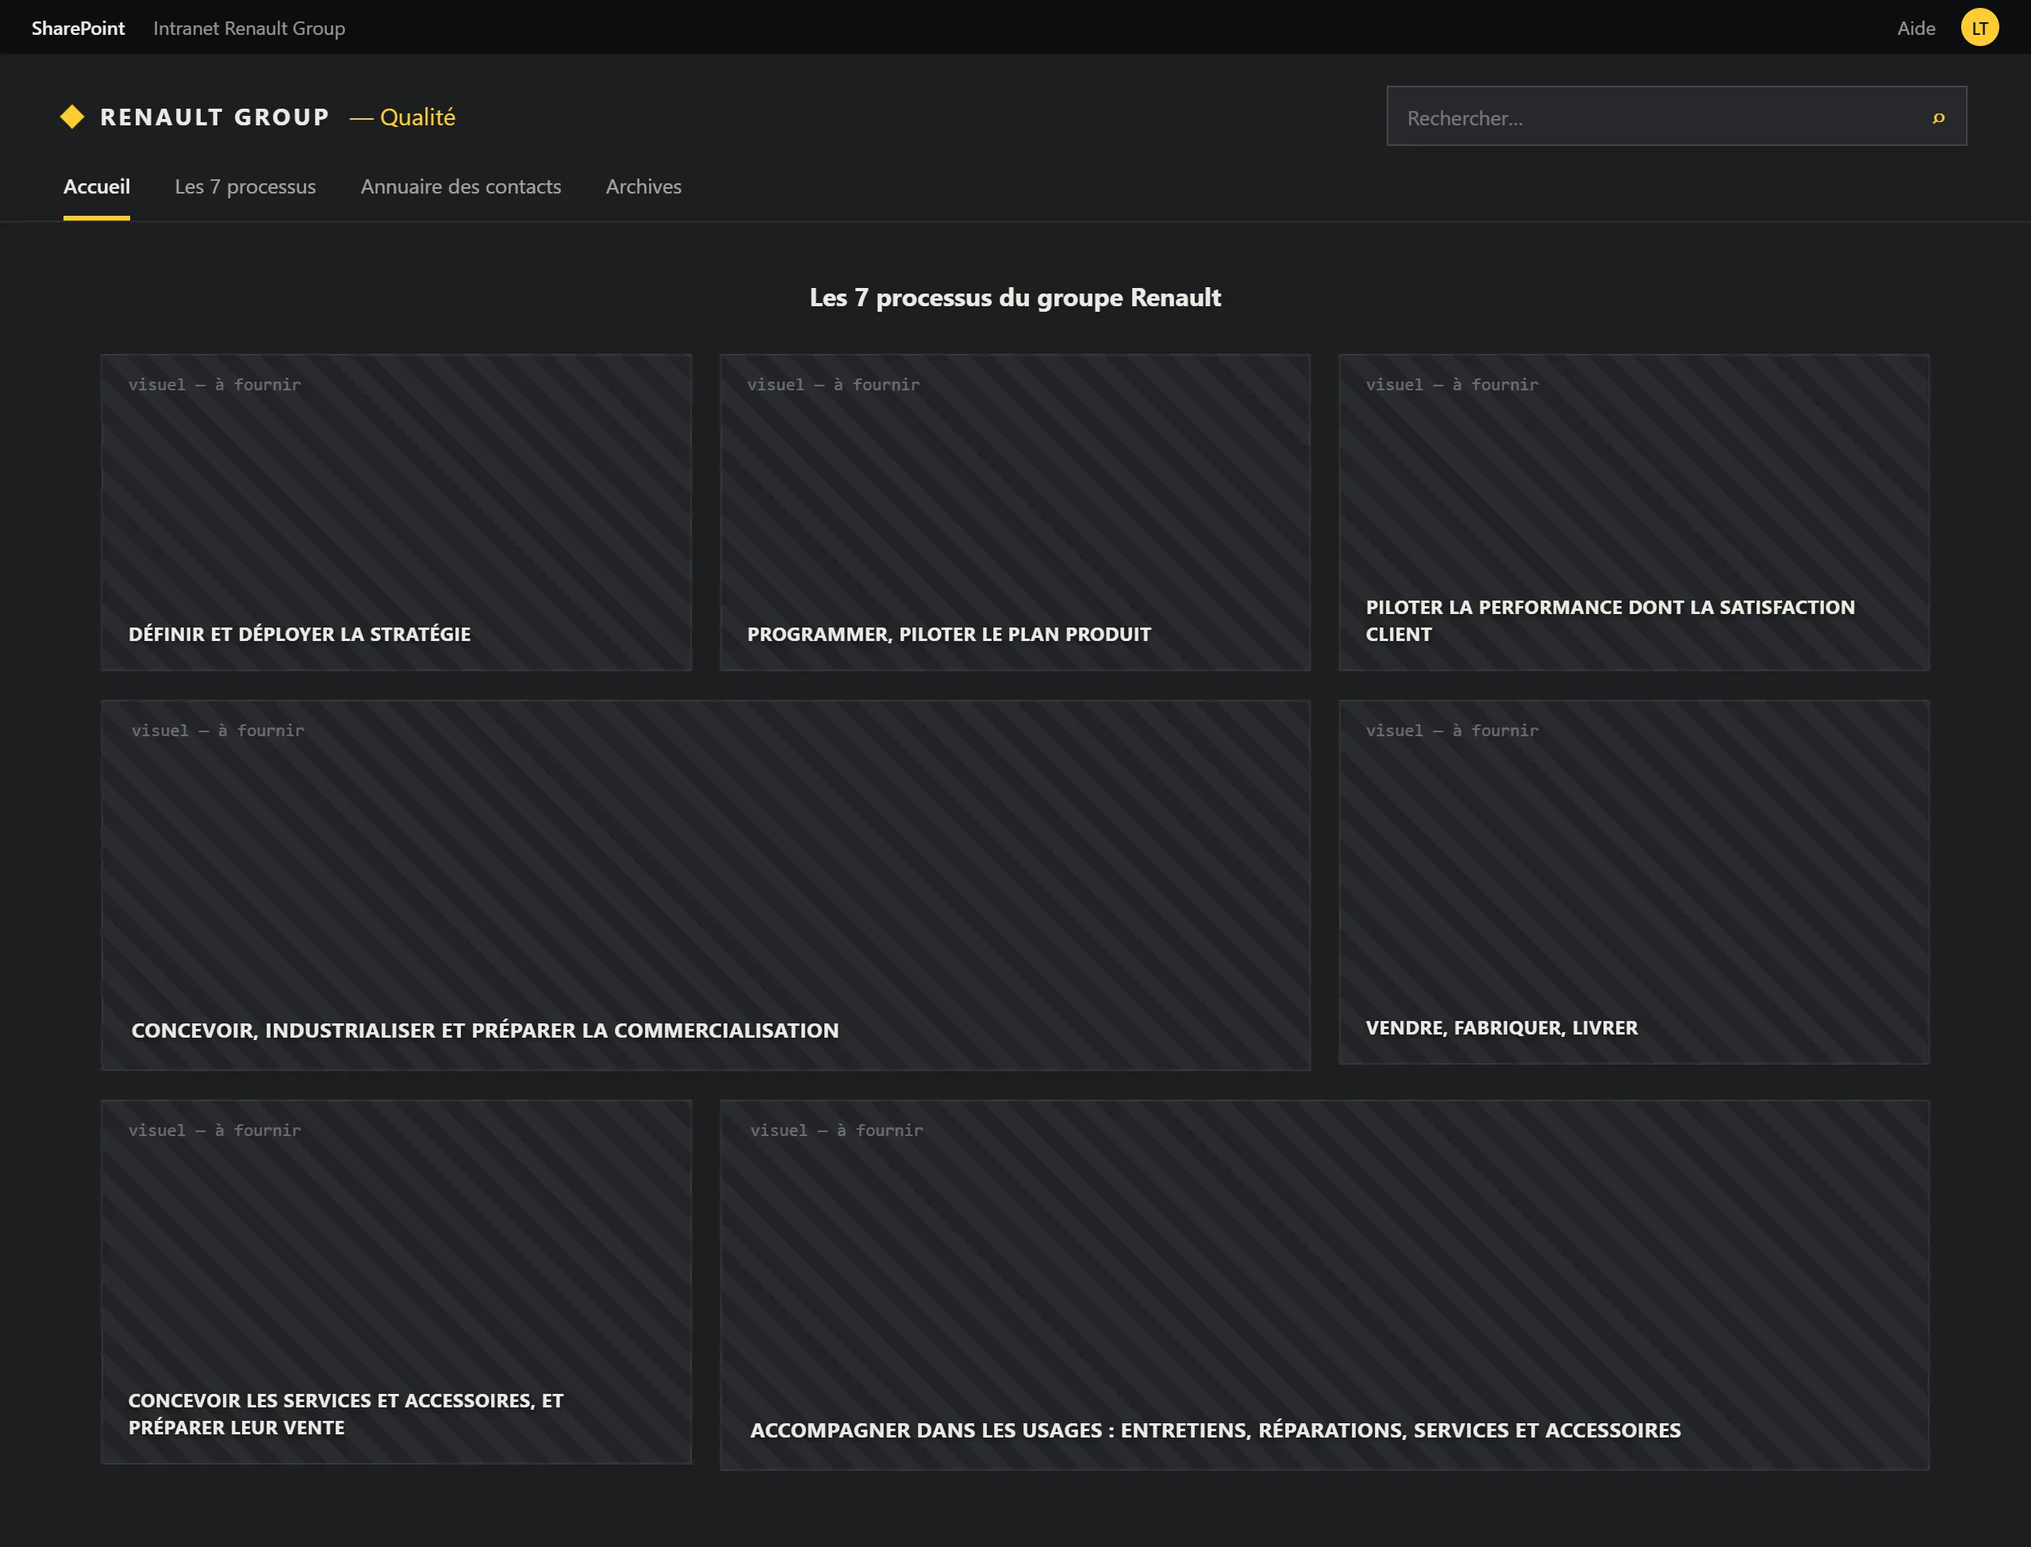
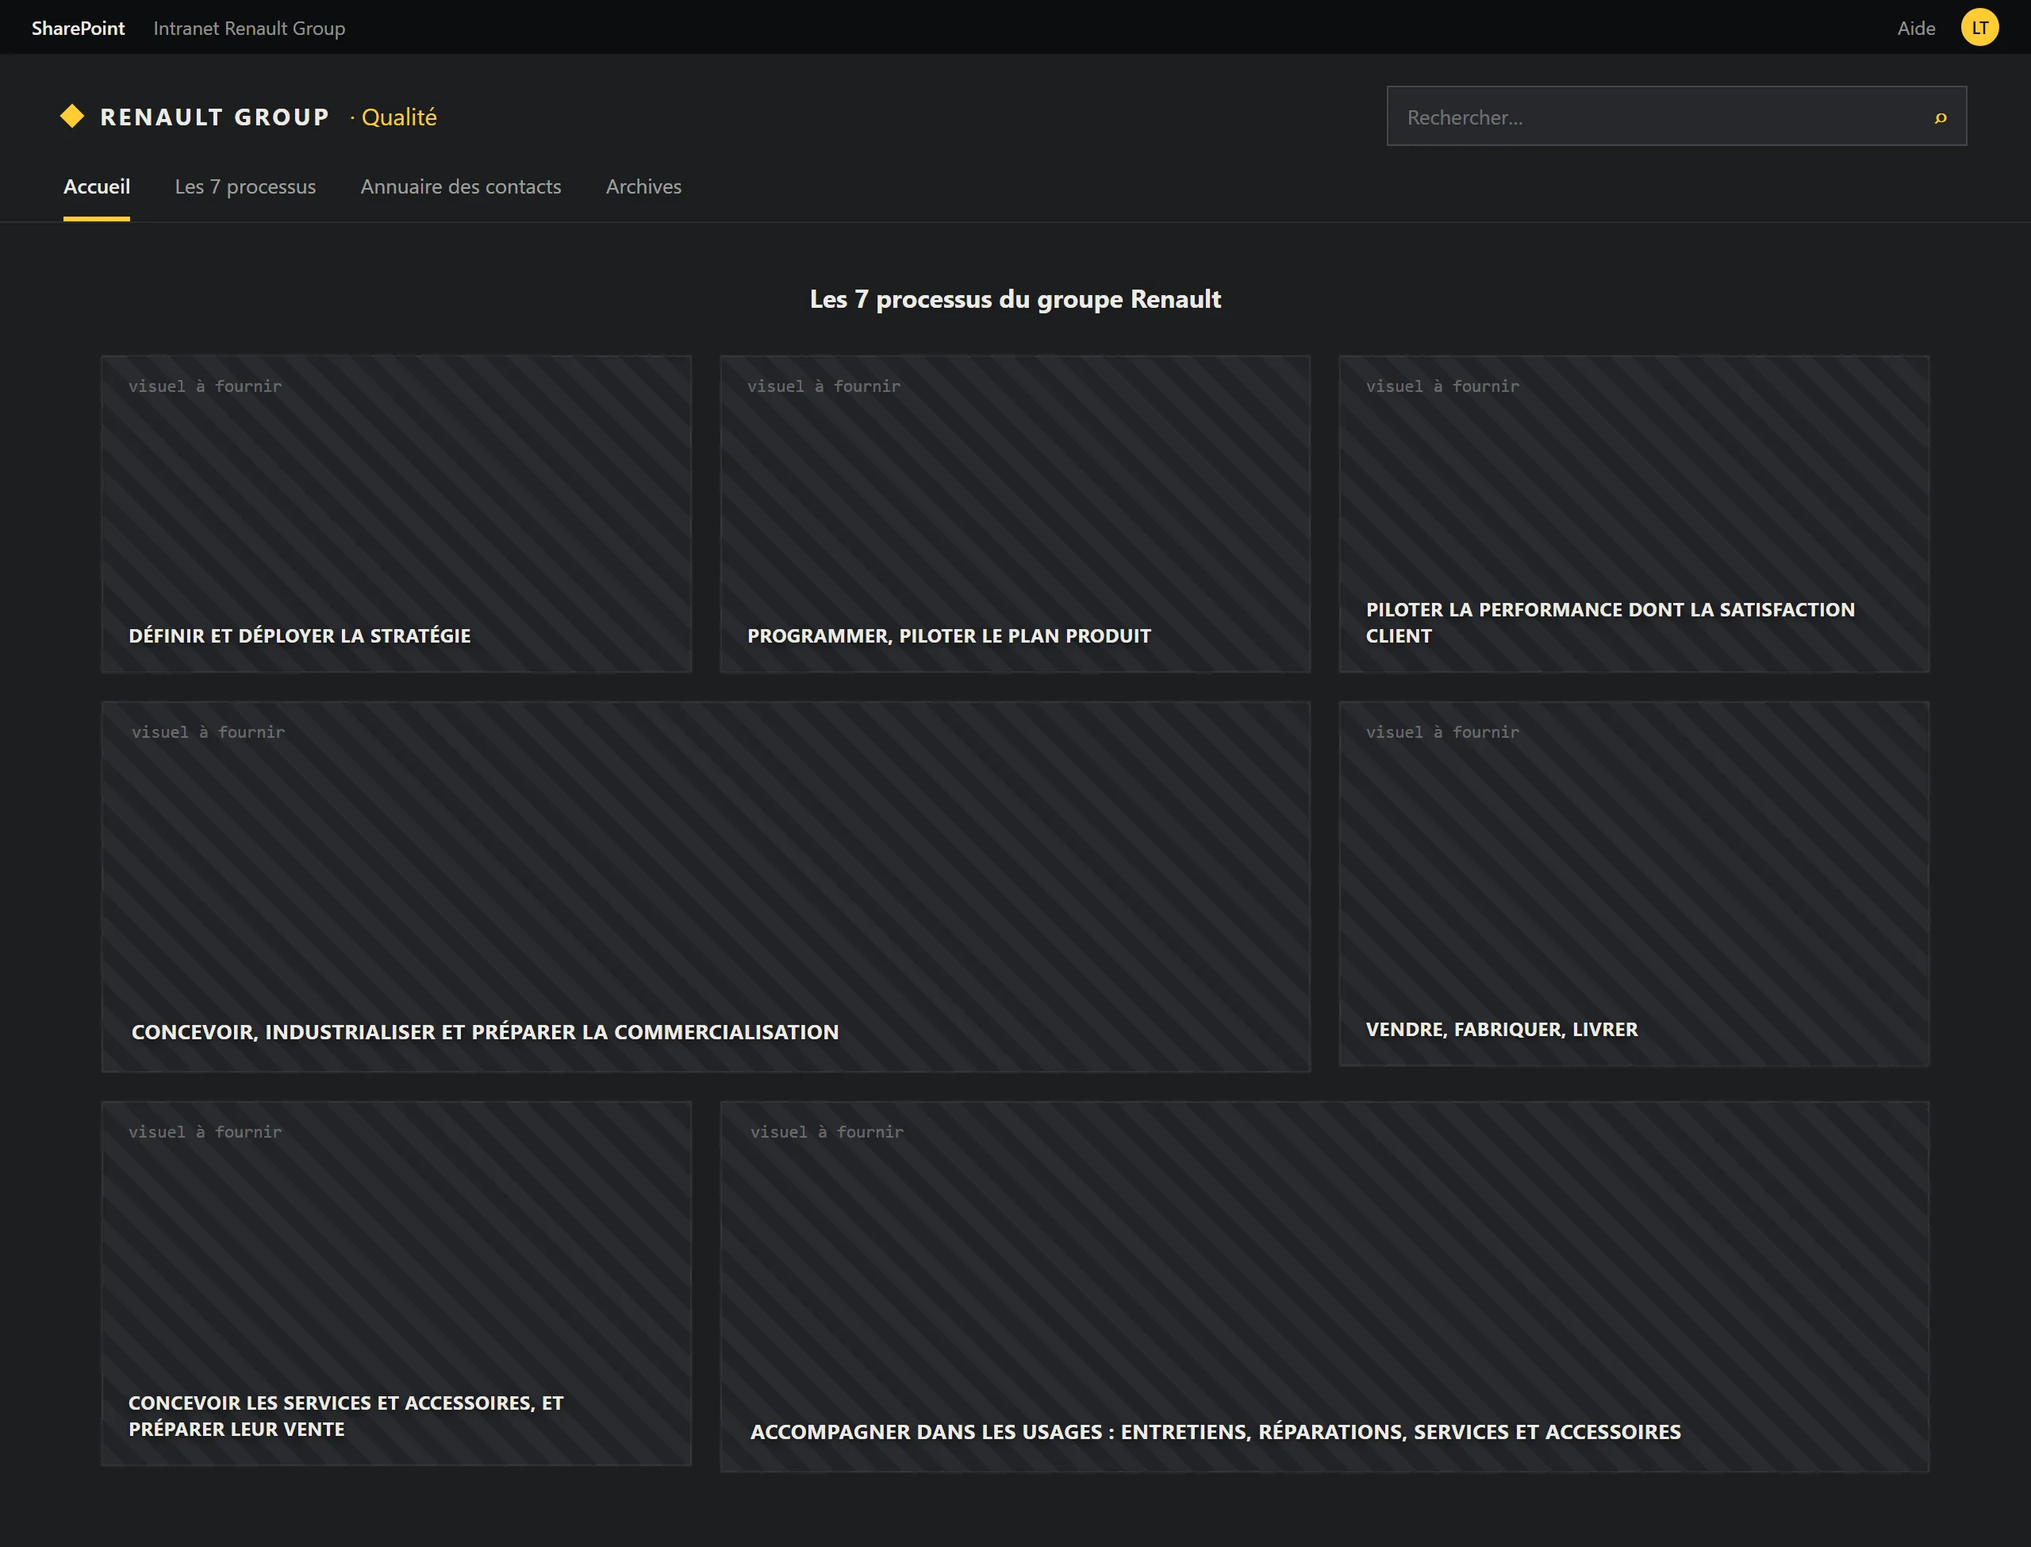
fix(renault): drop the em dashes from the mockup, re-render its captures
The Renault mockup still showed "RENAULT GROUP — Qualité" in its header
and "visuel — à fournir" on the seven tiles, both visible in the embedded
prototype. Header now reads "RENAULT GROUP · Qualité" (the site's own
separator), placeholders read "visuel à fournir".

The static captures were showing the old text, so they no longer matched
the live mockup: re-rendered the fixed HTML headlessly at 1280 @2x and
regenerated both WebP assets from it (accueil 104 KB, cover 43 KB, same
2560x1950 source as before).

Left untouched: em dashes inside the bundler's own JS comments in the
generated bundle, which are machinery, not content, and never rendered.

Verified in the browser: zero em dashes in the mockup's rendered text
inside the iframe; build passes, console clean.

diff --git a/public/assets/renault/accueil.html b/public/assets/renault/accueil.html
@@ -379,7 +379,7 @@ document.addEventListener('DOMContentLoaded', async function() {
   </script>
 
   <script type="__bundler/template">
-"<!DOCTYPE html>\n<html><head>\n<meta charset=\"utf-8\">\n<meta name=\"viewport\" content=\"width=device-width, initial-scale=1\">\n<script src=\"2a234587-6cec-4e99-a427-369bc43ba0ab\"><\u002Fscript>\n<\u002Fhead>\n<body>\n<x-dc>\n<helmet><style>body{margin:0;background:#101113;font-family:'Segoe UI',system-ui,sans-serif}a{color:#FFCC33;text-decoration:none}a:hover{color:#FFE083}<\u002Fstyle><\u002Fhelmet>\n<div style=\"width:1280px;background:#1B1D1F\">\n  <div style=\"display:flex;align-items:center;justify-content:space-between;background:#0C0D0E;padding:0 20px;height:34px;font-size:12px;color:rgba(236,234,228,.6)\">\n    <div style=\"display:flex;gap:18px;align-items:center\"><span style=\"font-weight:600;color:#ECEAE4\">SharePoint<\u002Fspan><span>Intranet Renault Group<\u002Fspan><\u002Fdiv>\n    <div style=\"display:flex;gap:16px;align-items:center\"><span>Aide<\u002Fspan><span style=\"width:24px;height:24px;border-radius:50%;background:#FFCC33;color:#141414;font:600 11px 'Segoe UI',sans-serif;display:flex;align-items:center;justify-content:center\">LT<\u002Fspan><\u002Fdiv>\n  <\u002Fdiv>\n  <div style=\"background:#1B1D1F;border-bottom:1px solid rgba(255,255,255,.08);padding:20px 40px 0\">\n    <div style=\"display:flex;align-items:center;justify-content:space-between\">\n      <div style=\"display:flex;align-items:center;gap:12px\"><span style=\"width:11px;height:11px;background:#FFCC33;transform:rotate(45deg)\"><\u002Fspan><span style=\"font-size:15px;font-weight:700;letter-spacing:.12em;color:#ECEAE4\">RENAULT GROUP<\u002Fspan><span style=\"font-size:15px;color:#FFCC33\">— Qualité<\u002Fspan><\u002Fdiv>\n      <div style=\"width:340px;height:36px;background:#26282B;border:1px solid rgba(255,255,255,.14);display:flex;align-items:center;justify-content:space-between;padding:0 12px;font-size:13px;color:rgba(236,234,228,.4)\"><span>Rechercher…<\u002Fspan><span style=\"color:#FFCC33;font-weight:600\">⌕<\u002Fspan><\u002Fdiv>\n    <\u002Fdiv>\n    <div style=\"display:flex;gap:28px;margin-top:16px;font-size:13px;color:rgba(236,234,228,.65)\">\n      <span style=\"padding-bottom:11px;border-bottom:3px solid #FFCC33;color:#ECEAE4;font-weight:600\">Accueil<\u002Fspan>\n      <span style=\"padding-bottom:11px\">Les 7 processus<\u002Fspan>\n      <span style=\"padding-bottom:11px\">Annuaire des contacts<\u002Fspan>\n      <span style=\"padding-bottom:11px\">Archives<\u002Fspan>\n    <\u002Fdiv>\n  <\u002Fdiv>\n  <div style=\"padding:36px 64px 48px\">\n    <div style=\"text-align:center;font-size:16px;font-weight:700;color:#ECEAE4;margin-bottom:26px\">Les 7 processus du groupe Renault<\u002Fdiv>\n    <div style=\"display:grid;grid-template-columns:1fr 1fr 1fr;gap:18px\">\n      <div style=\"position:relative;height:170px;background:#212326 repeating-linear-gradient(45deg,rgba(255,255,255,.035) 0 10px,transparent 10px 20px);border:1px solid rgba(255,255,255,.07);display:flex;align-items:flex-end;padding:14px 16px\"><span style=\"position:absolute;top:12px;left:16px;font:11px ui-monospace,Menlo,monospace;color:rgba(236,234,228,.35)\">visuel — à fournir<\u002Fspan><span style=\"font-size:12px;font-weight:700;line-height:1.4;letter-spacing:.02em;text-transform:uppercase;color:#ECEAE4;text-shadow:0 1px 3px rgba(0,0,0,.6)\">Définir et déployer la stratégie<\u002Fspan><\u002Fdiv>\n      <div style=\"position:relative;height:170px;background:#212326 repeating-linear-gradient(45deg,rgba(255,255,255,.035) 0 10px,transparent 10px 20px);border:1px solid rgba(255,255,255,.07);display:flex;align-items:flex-end;padding:14px 16px\"><span style=\"position:absolute;top:12px;left:16px;font:11px ui-monospace,Menlo,monospace;color:rgba(236,234,228,.35)\">visuel — à fournir<\u002Fspan><span style=\"font-size:12px;font-weight:700;line-height:1.4;letter-spacing:.02em;text-transform:uppercase;color:#ECEAE4;text-shadow:0 1px 3px rgba(0,0,0,.6)\">Programmer, piloter le plan produit<\u002Fspan><\u002Fdiv>\n      <div style=\"position:relative;height:170px;background:#212326 repeating-linear-gradient(45deg,rgba(255,255,255,.035) 0 10px,transparent 10px 20px);border:1px solid rgba(255,255,255,.07);display:flex;align-items:flex-end;padding:14px 16px\"><span style=\"position:absolute;top:12px;left:16px;font:11px ui-monospace,Menlo,monospace;color:rgba(236,234,228,.35)\">visuel — à fournir<\u002Fspan><span style=\"font-size:12px;font-weight:700;line-height:1.4;letter-spacing:.02em;text-transform:uppercase;color:#ECEAE4;text-shadow:0 1px 3px rgba(0,0,0,.6)\">Piloter la performance dont la satisfaction client<\u002Fspan><\u002Fdiv>\n      <div style=\"position:relative;grid-column:span 2;height:200px;background:#212326 repeating-linear-gradient(45deg,rgba(255,255,255,.035) 0 10px,transparent 10px 20px);border:1px solid rgba(255,255,255,.07);display:flex;align-items:flex-end;padding:16px 18px\"><span style=\"position:absolute;top:12px;left:18px;font:11px ui-monospace,Menlo,monospace;color:rgba(236,234,228,.35)\">visuel — à fournir<\u002Fspan><span style=\"font-size:13px;font-weight:700;line-height:1.4;letter-spacing:.02em;text-transform:uppercase;color:#ECEAE4;text-shadow:0 1px 3px rgba(0,0,0,.6)\">Concevoir, industrialiser et préparer la commercialisation<\u002Fspan><\u002Fdiv>\n      <div style=\"position:relative;height:200px;background:#212326 repeating-linear-gradient(45deg,rgba(255,255,255,.035) 0 10px,transparent 10px 20px);border:1px solid rgba(255,255,255,.07);display:flex;align-items:flex-end;padding:14px 16px\"><span style=\"position:absolute;top:12px;left:16px;font:11px ui-monospace,Menlo,monospace;color:rgba(236,234,228,.35)\">visuel — à fournir<\u002Fspan><span style=\"font-size:12px;font-weight:700;line-height:1.4;letter-spacing:.02em;text-transform:uppercase;color:#ECEAE4;text-shadow:0 1px 3px rgba(0,0,0,.6)\">Vendre, fabriquer, livrer<\u002Fspan><\u002Fdiv>\n      <div style=\"position:relative;height:200px;background:#212326 repeating-linear-gradient(45deg,rgba(255,255,255,.035) 0 10px,transparent 10px 20px);border:1px solid rgba(255,255,255,.07);display:flex;align-items:flex-end;padding:14px 16px\"><span style=\"position:absolute;top:12px;left:16px;font:11px ui-monospace,Menlo,monospace;color:rgba(236,234,228,.35)\">visuel — à fournir<\u002Fspan><span style=\"font-size:12px;font-weight:700;line-height:1.4;letter-spacing:.02em;text-transform:uppercase;color:#ECEAE4;text-shadow:0 1px 3px rgba(0,0,0,.6)\">Concevoir les services et accessoires, et préparer leur vente<\u002Fspan><\u002Fdiv>\n      <div style=\"position:relative;grid-column:span 2;height:200px;background:#212326 repeating-linear-gradient(45deg,rgba(255,255,255,.035) 0 10px,transparent 10px 20px);border:1px solid rgba(255,255,255,.07);display:flex;align-items:flex-end;padding:16px 18px\"><span style=\"position:absolute;top:12px;left:18px;font:11px ui-monospace,Menlo,monospace;color:rgba(236,234,228,.35)\">visuel — à fournir<\u002Fspan><span style=\"font-size:13px;font-weight:700;line-height:1.4;letter-spacing:.02em;text-transform:uppercase;color:#ECEAE4;text-shadow:0 1px 3px rgba(0,0,0,.6)\">Accompagner dans les usages : entretiens, réparations, services et accessoires<\u002Fspan><\u002Fdiv>\n    <\u002Fdiv>\n  <\u002Fdiv>\n<\u002Fdiv>\n<\u002Fx-dc>\n\n\n<\u002Fbody><\u002Fhtml>"
+"<!DOCTYPE html>\n<html><head>\n<meta charset=\"utf-8\">\n<meta name=\"viewport\" content=\"width=device-width, initial-scale=1\">\n<script src=\"2a234587-6cec-4e99-a427-369bc43ba0ab\"><\u002Fscript>\n<\u002Fhead>\n<body>\n<x-dc>\n<helmet><style>body{margin:0;background:#101113;font-family:'Segoe UI',system-ui,sans-serif}a{color:#FFCC33;text-decoration:none}a:hover{color:#FFE083}<\u002Fstyle><\u002Fhelmet>\n<div style=\"width:1280px;background:#1B1D1F\">\n  <div style=\"display:flex;align-items:center;justify-content:space-between;background:#0C0D0E;padding:0 20px;height:34px;font-size:12px;color:rgba(236,234,228,.6)\">\n    <div style=\"display:flex;gap:18px;align-items:center\"><span style=\"font-weight:600;color:#ECEAE4\">SharePoint<\u002Fspan><span>Intranet Renault Group<\u002Fspan><\u002Fdiv>\n    <div style=\"display:flex;gap:16px;align-items:center\"><span>Aide<\u002Fspan><span style=\"width:24px;height:24px;border-radius:50%;background:#FFCC33;color:#141414;font:600 11px 'Segoe UI',sans-serif;display:flex;align-items:center;justify-content:center\">LT<\u002Fspan><\u002Fdiv>\n  <\u002Fdiv>\n  <div style=\"background:#1B1D1F;border-bottom:1px solid rgba(255,255,255,.08);padding:20px 40px 0\">\n    <div style=\"display:flex;align-items:center;justify-content:space-between\">\n      <div style=\"display:flex;align-items:center;gap:12px\"><span style=\"width:11px;height:11px;background:#FFCC33;transform:rotate(45deg)\"><\u002Fspan><span style=\"font-size:15px;font-weight:700;letter-spacing:.12em;color:#ECEAE4\">RENAULT GROUP<\u002Fspan><span style=\"font-size:15px;color:#FFCC33\">· Qualité<\u002Fspan><\u002Fdiv>\n      <div style=\"width:340px;height:36px;background:#26282B;border:1px solid rgba(255,255,255,.14);display:flex;align-items:center;justify-content:space-between;padding:0 12px;font-size:13px;color:rgba(236,234,228,.4)\"><span>Rechercher…<\u002Fspan><span style=\"color:#FFCC33;font-weight:600\">⌕<\u002Fspan><\u002Fdiv>\n    <\u002Fdiv>\n    <div style=\"display:flex;gap:28px;margin-top:16px;font-size:13px;color:rgba(236,234,228,.65)\">\n      <span style=\"padding-bottom:11px;border-bottom:3px solid #FFCC33;color:#ECEAE4;font-weight:600\">Accueil<\u002Fspan>\n      <span style=\"padding-bottom:11px\">Les 7 processus<\u002Fspan>\n      <span style=\"padding-bottom:11px\">Annuaire des contacts<\u002Fspan>\n      <span style=\"padding-bottom:11px\">Archives<\u002Fspan>\n    <\u002Fdiv>\n  <\u002Fdiv>\n  <div style=\"padding:36px 64px 48px\">\n    <div style=\"text-align:center;font-size:16px;font-weight:700;color:#ECEAE4;margin-bottom:26px\">Les 7 processus du groupe Renault<\u002Fdiv>\n    <div style=\"display:grid;grid-template-columns:1fr 1fr 1fr;gap:18px\">\n      <div style=\"position:relative;height:170px;background:#212326 repeating-linear-gradient(45deg,rgba(255,255,255,.035) 0 10px,transparent 10px 20px);border:1px solid rgba(255,255,255,.07);display:flex;align-items:flex-end;padding:14px 16px\"><span style=\"position:absolute;top:12px;left:16px;font:11px ui-monospace,Menlo,monospace;color:rgba(236,234,228,.35)\">visuel à fournir<\u002Fspan><span style=\"font-size:12px;font-weight:700;line-height:1.4;letter-spacing:.02em;text-transform:uppercase;color:#ECEAE4;text-shadow:0 1px 3px rgba(0,0,0,.6)\">Définir et déployer la stratégie<\u002Fspan><\u002Fdiv>\n      <div style=\"position:relative;height:170px;background:#212326 repeating-linear-gradient(45deg,rgba(255,255,255,.035) 0 10px,transparent 10px 20px);border:1px solid rgba(255,255,255,.07);display:flex;align-items:flex-end;padding:14px 16px\"><span style=\"position:absolute;top:12px;left:16px;font:11px ui-monospace,Menlo,monospace;color:rgba(236,234,228,.35)\">visuel à fournir<\u002Fspan><span style=\"font-size:12px;font-weight:700;line-height:1.4;letter-spacing:.02em;text-transform:uppercase;color:#ECEAE4;text-shadow:0 1px 3px rgba(0,0,0,.6)\">Programmer, piloter le plan produit<\u002Fspan><\u002Fdiv>\n      <div style=\"position:relative;height:170px;background:#212326 repeating-linear-gradient(45deg,rgba(255,255,255,.035) 0 10px,transparent 10px 20px);border:1px solid rgba(255,255,255,.07);display:flex;align-items:flex-end;padding:14px 16px\"><span style=\"position:absolute;top:12px;left:16px;font:11px ui-monospace,Menlo,monospace;color:rgba(236,234,228,.35)\">visuel à fournir<\u002Fspan><span style=\"font-size:12px;font-weight:700;line-height:1.4;letter-spacing:.02em;text-transform:uppercase;color:#ECEAE4;text-shadow:0 1px 3px rgba(0,0,0,.6)\">Piloter la performance dont la satisfaction client<\u002Fspan><\u002Fdiv>\n      <div style=\"position:relative;grid-column:span 2;height:200px;background:#212326 repeating-linear-gradient(45deg,rgba(255,255,255,.035) 0 10px,transparent 10px 20px);border:1px solid rgba(255,255,255,.07);display:flex;align-items:flex-end;padding:16px 18px\"><span style=\"position:absolute;top:12px;left:18px;font:11px ui-monospace,Menlo,monospace;color:rgba(236,234,228,.35)\">visuel à fournir<\u002Fspan><span style=\"font-size:13px;font-weight:700;line-height:1.4;letter-spacing:.02em;text-transform:uppercase;color:#ECEAE4;text-shadow:0 1px 3px rgba(0,0,0,.6)\">Concevoir, industrialiser et préparer la commercialisation<\u002Fspan><\u002Fdiv>\n      <div style=\"position:relative;height:200px;background:#212326 repeating-linear-gradient(45deg,rgba(255,255,255,.035) 0 10px,transparent 10px 20px);border:1px solid rgba(255,255,255,.07);display:flex;align-items:flex-end;padding:14px 16px\"><span style=\"position:absolute;top:12px;left:16px;font:11px ui-monospace,Menlo,monospace;color:rgba(236,234,228,.35)\">visuel à fournir<\u002Fspan><span style=\"font-size:12px;font-weight:700;line-height:1.4;letter-spacing:.02em;text-transform:uppercase;color:#ECEAE4;text-shadow:0 1px 3px rgba(0,0,0,.6)\">Vendre, fabriquer, livrer<\u002Fspan><\u002Fdiv>\n      <div style=\"position:relative;height:200px;background:#212326 repeating-linear-gradient(45deg,rgba(255,255,255,.035) 0 10px,transparent 10px 20px);border:1px solid rgba(255,255,255,.07);display:flex;align-items:flex-end;padding:14px 16px\"><span style=\"position:absolute;top:12px;left:16px;font:11px ui-monospace,Menlo,monospace;color:rgba(236,234,228,.35)\">visuel à fournir<\u002Fspan><span style=\"font-size:12px;font-weight:700;line-height:1.4;letter-spacing:.02em;text-transform:uppercase;color:#ECEAE4;text-shadow:0 1px 3px rgba(0,0,0,.6)\">Concevoir les services et accessoires, et préparer leur vente<\u002Fspan><\u002Fdiv>\n      <div style=\"position:relative;grid-column:span 2;height:200px;background:#212326 repeating-linear-gradient(45deg,rgba(255,255,255,.035) 0 10px,transparent 10px 20px);border:1px solid rgba(255,255,255,.07);display:flex;align-items:flex-end;padding:16px 18px\"><span style=\"position:absolute;top:12px;left:18px;font:11px ui-monospace,Menlo,monospace;color:rgba(236,234,228,.35)\">visuel à fournir<\u002Fspan><span style=\"font-size:13px;font-weight:700;line-height:1.4;letter-spacing:.02em;text-transform:uppercase;color:#ECEAE4;text-shadow:0 1px 3px rgba(0,0,0,.6)\">Accompagner dans les usages : entretiens, réparations, services et accessoires<\u002Fspan><\u002Fdiv>\n    <\u002Fdiv>\n  <\u002Fdiv>\n<\u002Fdiv>\n<\u002Fx-dc>\n\n\n<\u002Fbody><\u002Fhtml>"
   </script>
 </body>
 </html>
